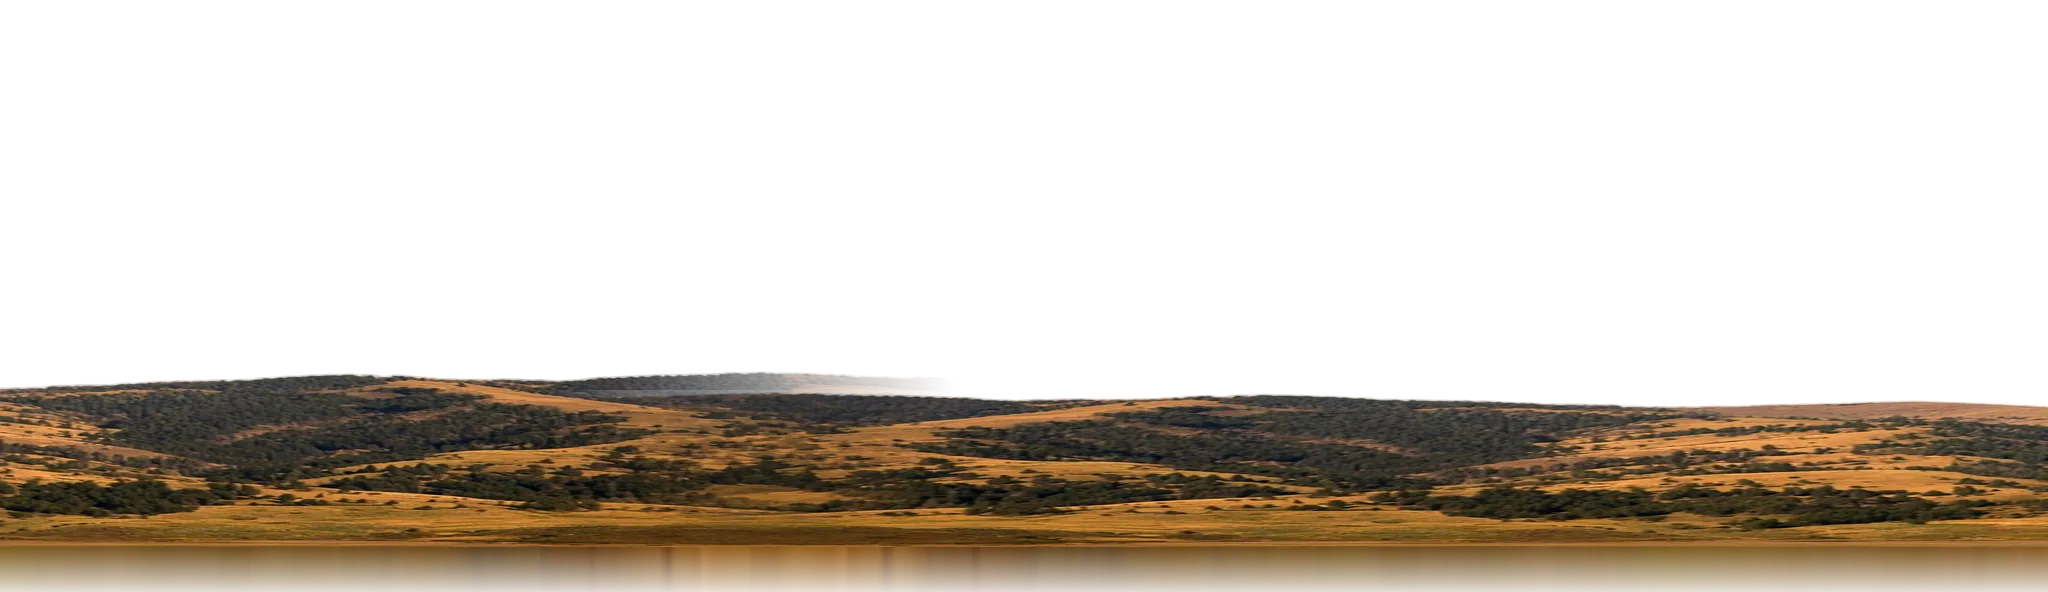
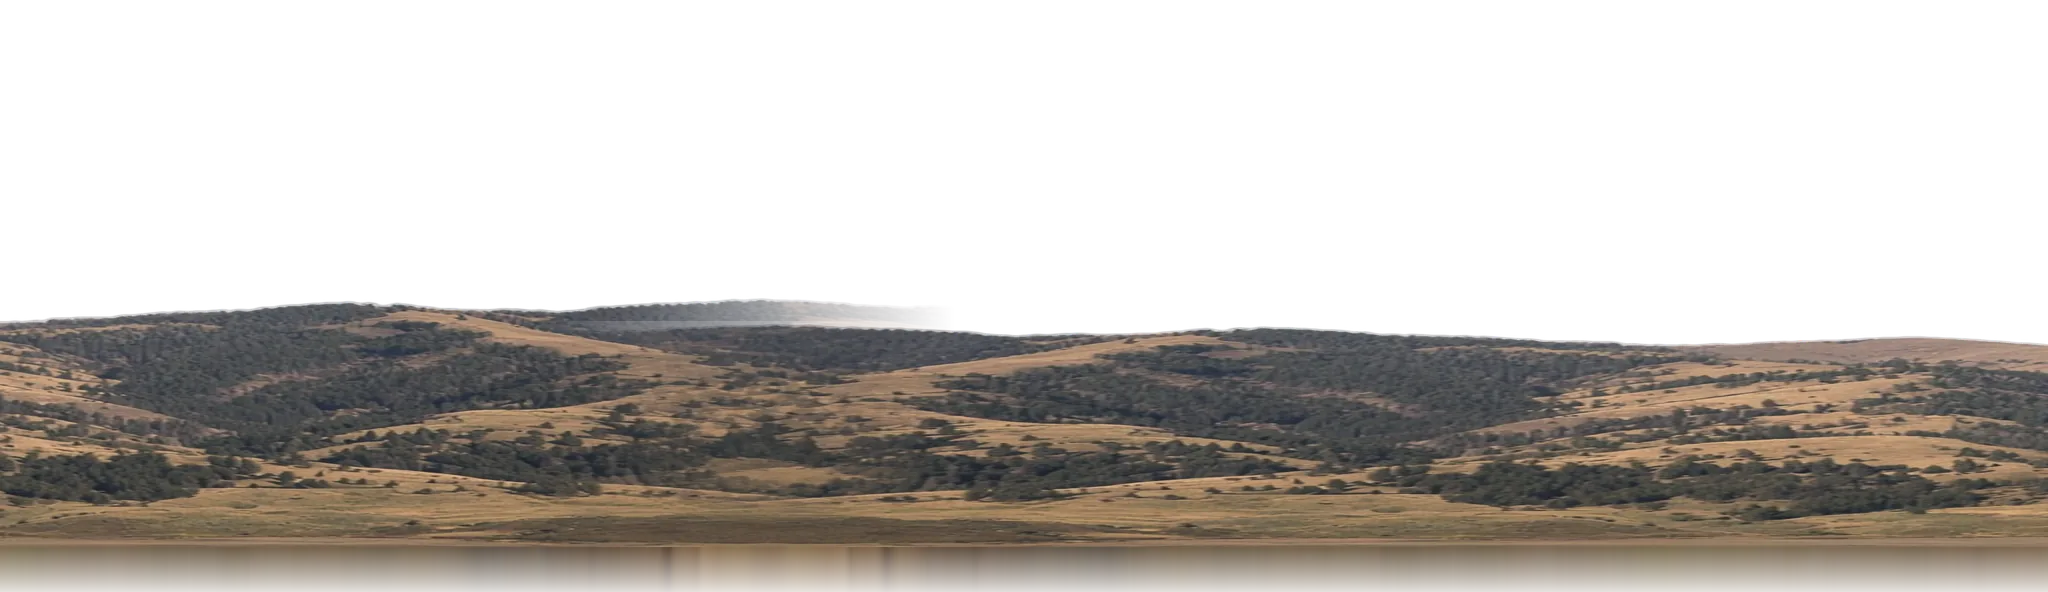
Sapphires: taller (240/215 m) and cooler/bluer with distance

diff --git a/tools/aitex.py b/tools/aitex.py
@@ -107,6 +107,8 @@ def ring():
     def seg(name, b0, b1, peak_m, flip=False, thr=0.018):
         a = np.asarray(Image.open(f'{SRC}/{name}.jpg').convert('RGB')).astype(np.float32) / 255
         al, tops = sky_alpha(a, thr); top = int(np.percentile(tops, 2)); a = grade(a)
+        if name == 'mtn_east':  # Sapphires: further away -> cooler, bluer, less brown
+            l = (a @ np.array([0.299, 0.587, 0.114], np.float32))[..., None]; a = l + (a - l) * 0.7; a = np.clip(a * 0.8 + np.array([0.60, 0.66, 0.78], np.float32) * 0.2, 0, 1)
         rgba = np.concatenate([a, al[..., None]], -1)[max(0, top - 6):]
         if flip: rgba = rgba[:, ::-1]
         hpx = int(peak_m / 0.946); wpx = int((b1 - b0) / 360 * WT)
@@ -123,8 +125,8 @@ def ring():
     seg('mtn_west_b', 222, 276, 380)
     seg('mtn_west_a', 264, 322, 360)
     seg('mountain_backdrop', 308, 364, 280, flip=True)
-    seg('mtn_east', 350, 448, 170, thr=0.012)          # 350°..88° (wraps)
-    seg('mtn_east', 76, 192, 150, flip=True, thr=0.012)
+    seg('mtn_east', 350, 448, 240, thr=0.012)          # 350°..88° (wraps)
+    seg('mtn_east', 76, 192, 215, flip=True, thr=0.012)
     out = np.empty_like(acc); out[..., :3] = acc[..., :3] / np.maximum(acc[..., 3:], 1e-4); out[..., 3:] = acc[..., 3:] / np.maximum(wsum, 1.0)  # premultiplied blend; partial cover fades
     for k in range(6):
         sl = out[:, k * WT // 6:(k + 1) * WT // 6]; im = Image.fromarray(np.clip(sl * 255 + 0.5, 0, 255).astype(np.uint8), 'RGBA')
